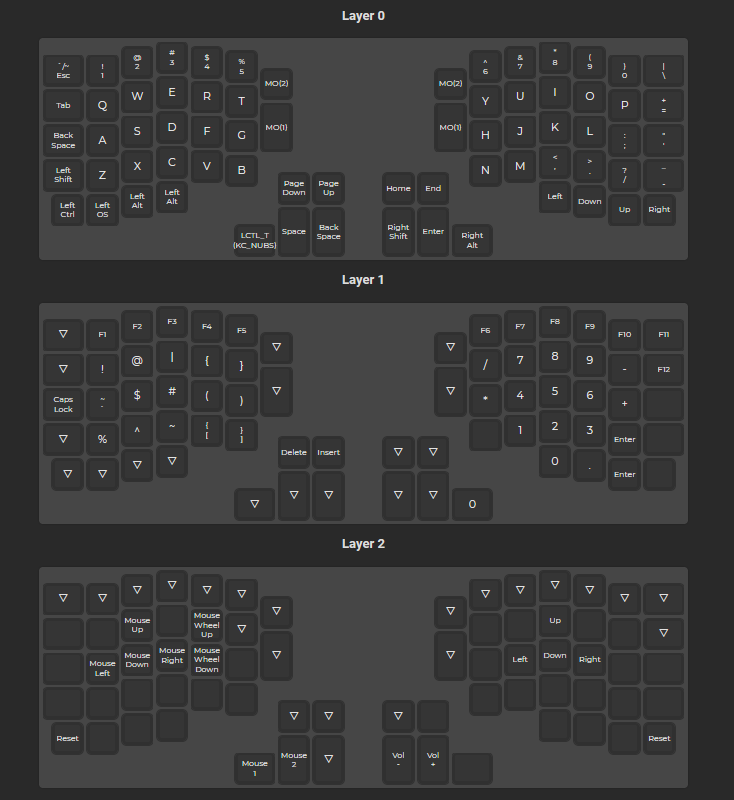
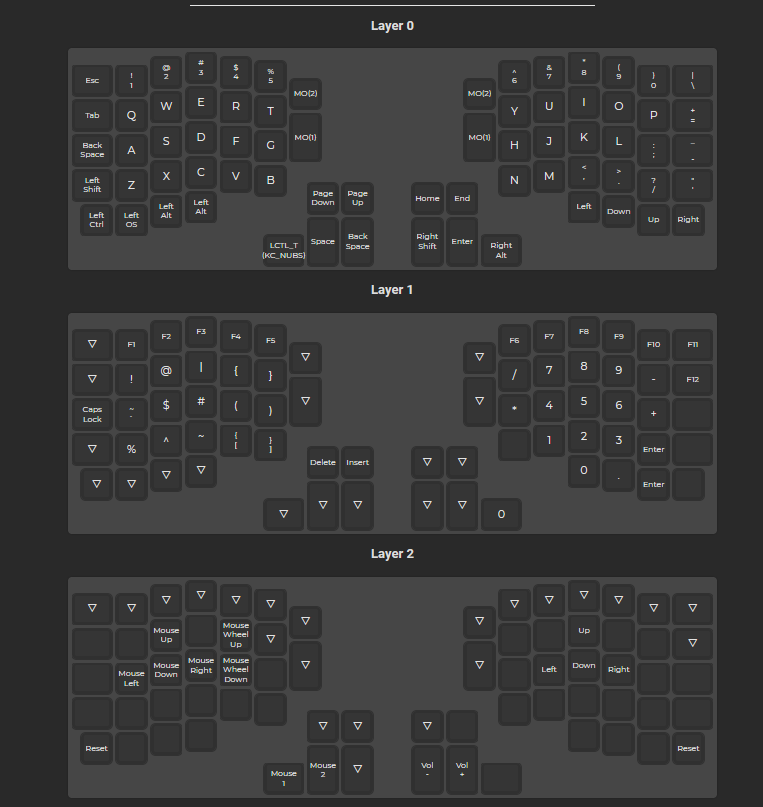
Another key modification

diff --git a/keymap.c b/keymap.c
@@ -9,7 +9,7 @@
 
 
 const uint16_t PROGMEM keymaps[][MATRIX_ROWS][MATRIX_COLS] = {
-	[0] = LAYOUT(QK_GESC, KC_1, KC_2, KC_3, KC_4, KC_5, KC_6, KC_7, KC_8, KC_9, KC_0, KC_NUHS, KC_TAB, KC_Q, KC_W, KC_E, KC_R, KC_T, MO(2), MO(2), KC_Y, KC_U, KC_I, KC_O, KC_P, KC_EQL, KC_BSPC, KC_A, KC_S, KC_D, KC_F, KC_G, MO(1), MO(1), KC_H, KC_J, KC_K, KC_L, KC_SCLN, KC_QUOT, KC_LSFT, KC_Z, KC_X, KC_C, KC_V, KC_B, KC_PGDN, KC_PGUP, KC_HOME, KC_END, KC_N, KC_M, KC_COMM, KC_DOT, KC_SLSH, KC_MINS, KC_LCTL, KC_LGUI, KC_LALT, KC_LALT, LCTL_T(KC_NUBS), KC_SPC, KC_BSPC, KC_RSFT, KC_ENT, KC_RALT, KC_LEFT, KC_DOWN, KC_UP, KC_RGHT),
+	[0] = LAYOUT(KC_ESC, KC_1, KC_2, KC_3, KC_4, KC_5, KC_6, KC_7, KC_8, KC_9, KC_0, KC_NUHS, KC_TAB, KC_Q, KC_W, KC_E, KC_R, KC_T, MO(2), MO(2), KC_Y, KC_U, KC_I, KC_O, KC_P, KC_EQL, KC_BSPC, KC_A, KC_S, KC_D, KC_F, KC_G, MO(1), MO(1), KC_H, KC_J, KC_K, KC_L, KC_SCLN, KC_MINS, KC_LSFT, KC_Z, KC_X, KC_C, KC_V, KC_B, KC_PGDN, KC_PGUP, KC_HOME, KC_END, KC_N, KC_M, KC_COMM, KC_DOT, KC_SLSH, KC_QUOT, KC_LCTL, KC_LGUI, KC_LALT, KC_LALT, LCTL_T(KC_NUBS), KC_SPC, KC_BSPC, KC_RSFT, KC_ENT, KC_RALT, KC_LEFT, KC_DOWN, KC_UP, KC_RGHT),
 	[1] = LAYOUT(KC_TRNS, KC_F1, KC_F2, KC_F3, KC_F4, KC_F5, KC_F6, KC_F7, KC_F8, KC_F9, KC_F10, KC_F11, KC_TRNS, KC_EXLM, KC_AT, KC_PIPE, KC_LCBR, KC_RCBR, KC_TRNS, KC_TRNS, KC_PSLS, KC_P7, KC_P8, KC_P9, KC_PMNS, KC_F12, KC_CAPS, KC_GRV, KC_DLR, KC_HASH, KC_LPRN, KC_RPRN, KC_TRNS, KC_TRNS, KC_PAST, KC_P4, KC_P5, KC_P6, KC_PPLS, KC_NO, KC_TRNS, KC_PERC, KC_CIRC, KC_TILD, KC_LBRC, KC_RBRC, KC_DEL, KC_INS, KC_TRNS, KC_TRNS, KC_NO, KC_P1, KC_P2, KC_P3, KC_PENT, KC_NO, KC_TRNS, KC_TRNS, KC_TRNS, KC_TRNS, KC_TRNS, KC_TRNS, KC_TRNS, KC_TRNS, KC_TRNS, KC_P0, KC_P0, KC_PDOT, KC_PENT, KC_NO),
 	[2] = LAYOUT(KC_TRNS, KC_TRNS, KC_TRNS, KC_TRNS, KC_TRNS, KC_TRNS, KC_TRNS, KC_TRNS, KC_TRNS, KC_TRNS, KC_TRNS, KC_TRNS, KC_NO, KC_NO, KC_MS_U, KC_NO, KC_WH_U, KC_TRNS, KC_TRNS, KC_TRNS, KC_NO, KC_NO, KC_UP, KC_NO, KC_NO, KC_TRNS, KC_NO, KC_MS_L, KC_MS_D, KC_MS_R, KC_WH_D, KC_NO, KC_TRNS, KC_TRNS, KC_NO, KC_LEFT, KC_DOWN, KC_RGHT, KC_NO, KC_NO, KC_NO, KC_NO, KC_NO, KC_NO, KC_NO, KC_NO, KC_TRNS, KC_TRNS, KC_TRNS, KC_NO, KC_NO, KC_NO, KC_NO, KC_NO, KC_NO, KC_NO, QK_BOOT, KC_NO, KC_NO, KC_NO, KC_BTN1, KC_BTN2, KC_TRNS, KC_VOLD, KC_VOLU, KC_NO, KC_NO, KC_NO, KC_NO, QK_BOOT)
 };
